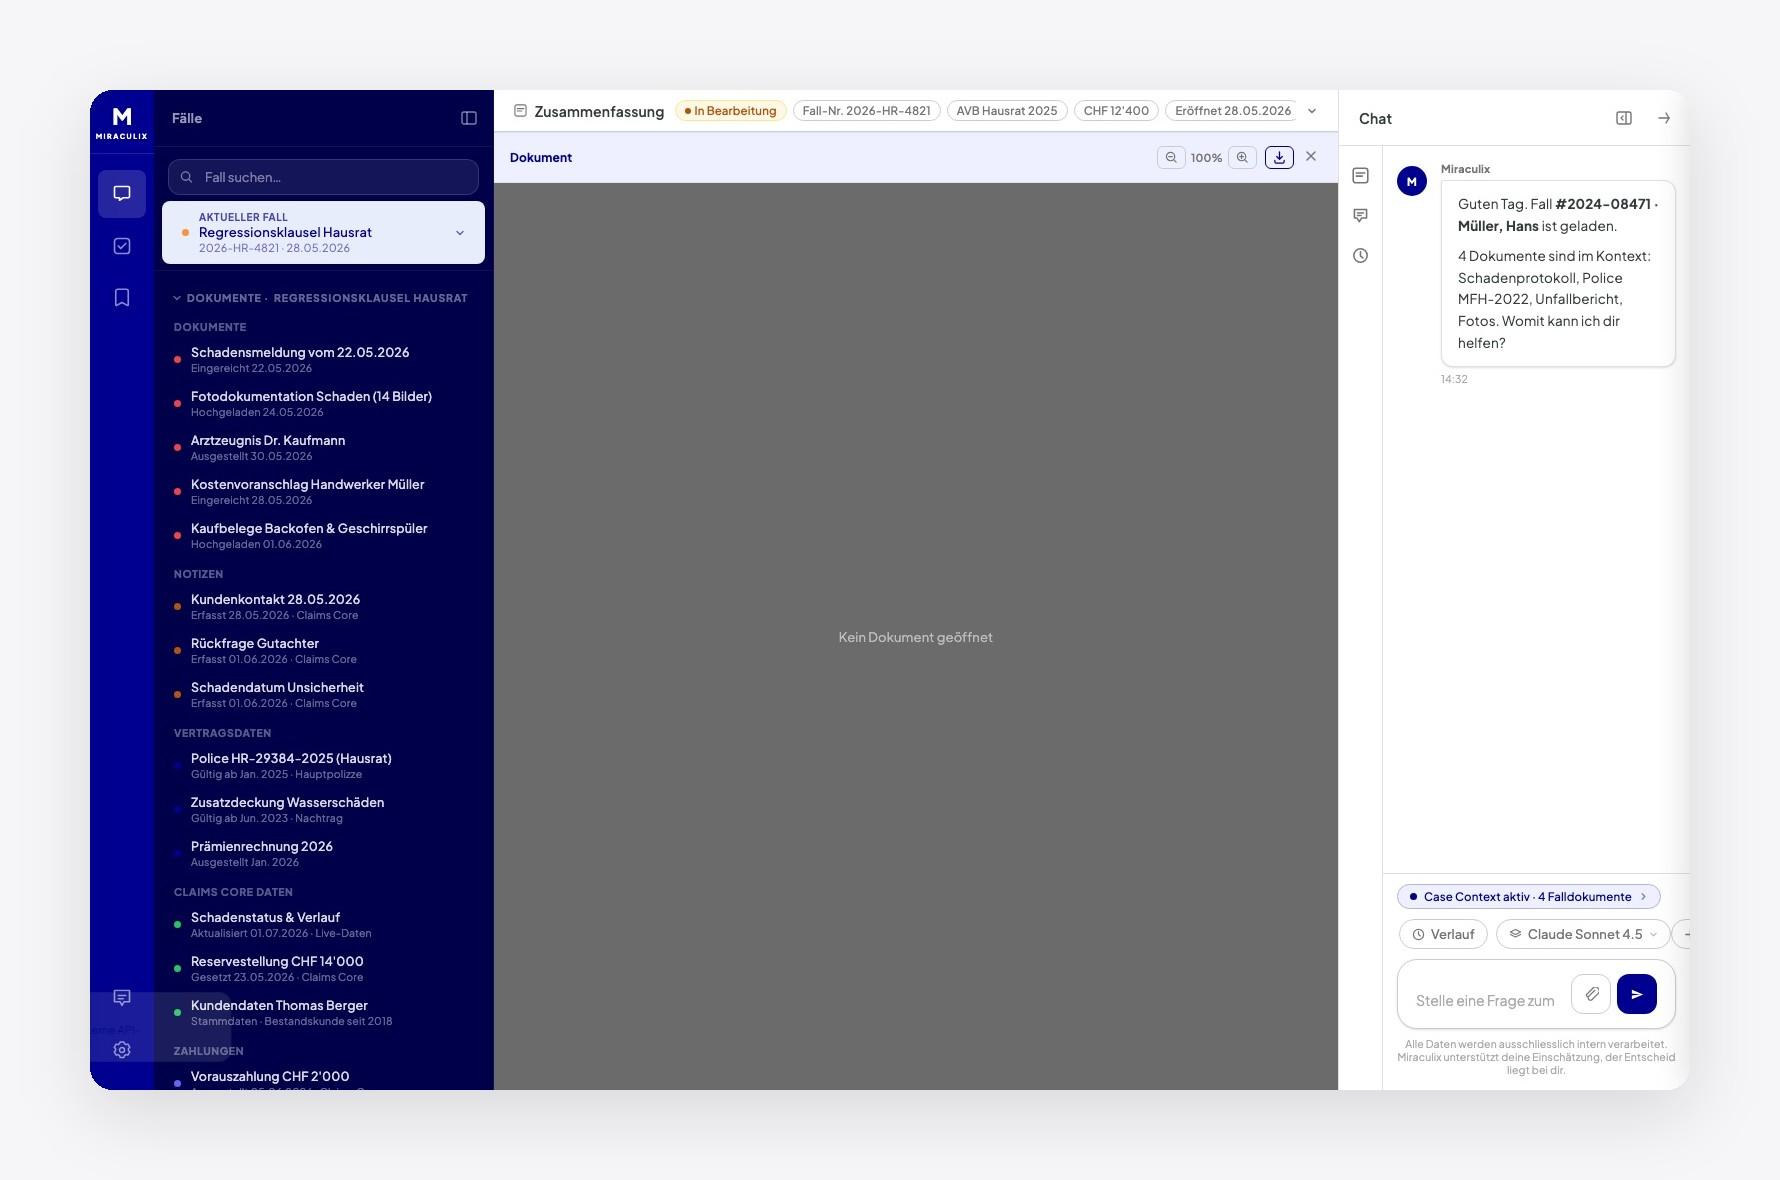
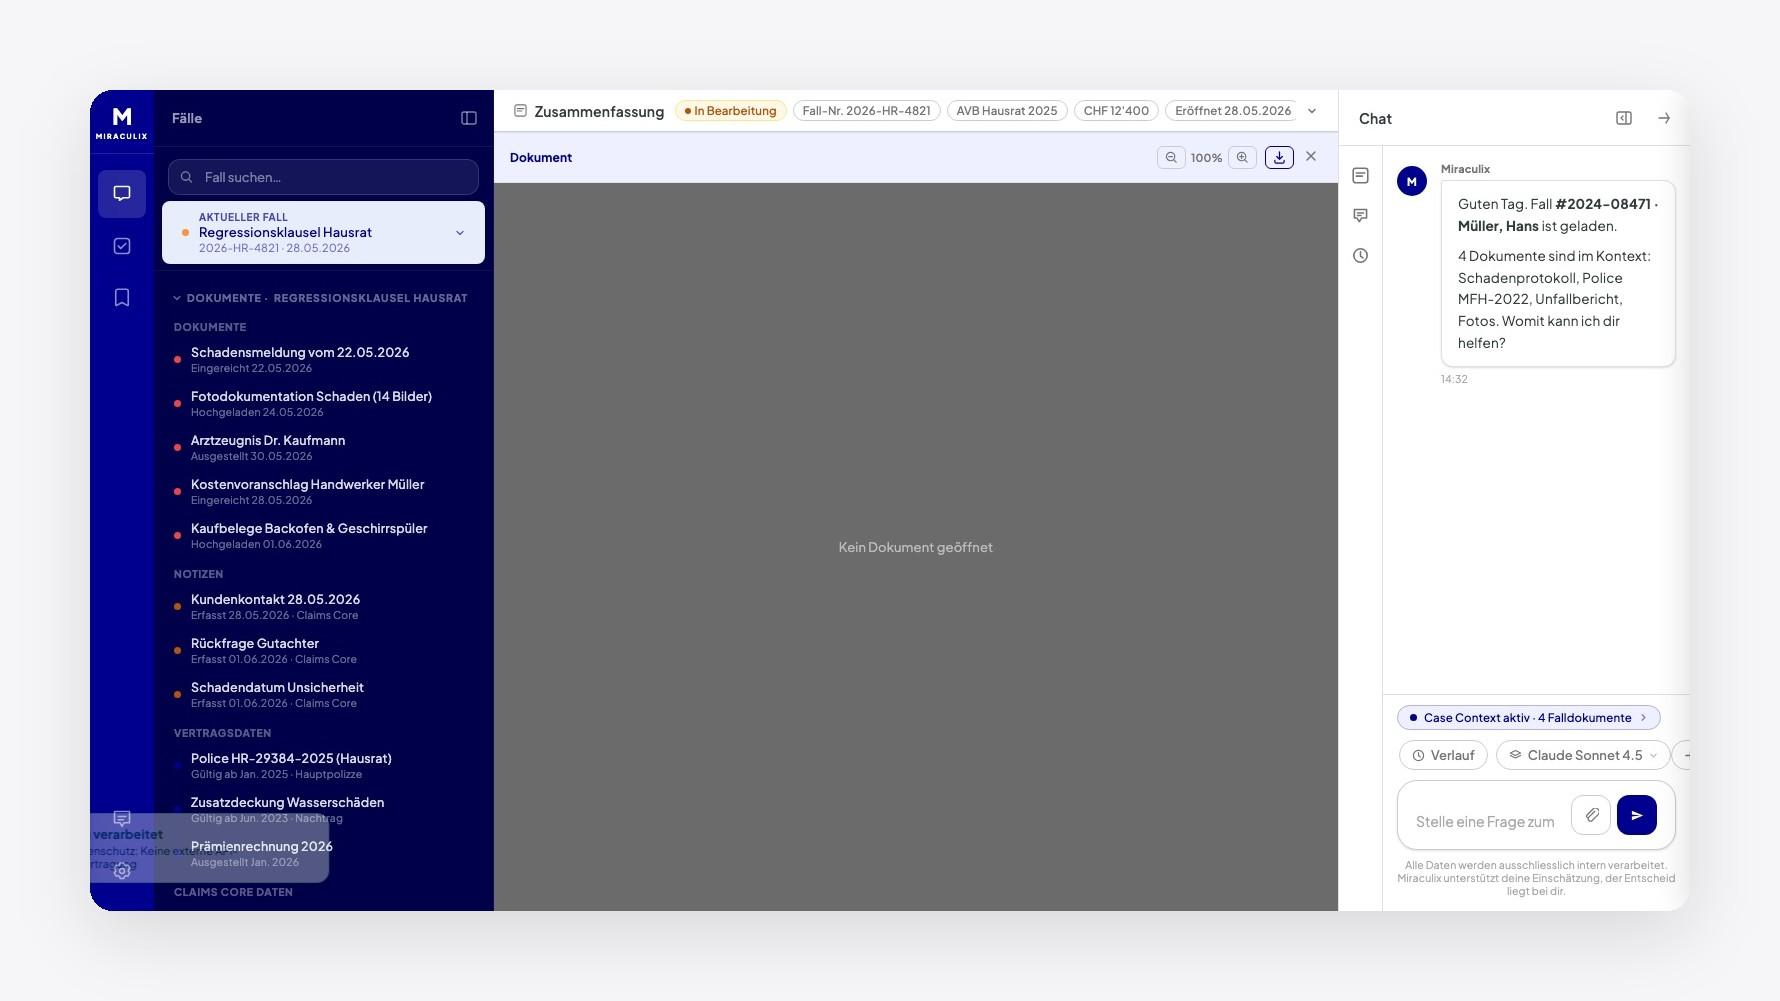
Fix vertical margin on Miraculix images and shorten project title
Regenerate screenshots at 16:9-matching aspect ratio so the device
mockup gets equal padding on all sides instead of being cropped
vertically by the slider aspect-ratio crop.

Changed region(s): [[0.0309, 0.0619, 0.9579, 0.9291], [0.4635, 0.5265, 0.5562, 0.5574], [0.8961, 0.0929, 0.927, 0.1239]]

diff --git a/projekte.html b/projekte.html
@@ -180,7 +180,7 @@
           </div>
           <div class="proj-detail-text">
             <div class="proj-detail-eyebrow">Projekt 01</div>
-            <h2 class="proj-detail-title" data-en="Miraculix App as the Future Workplace for Claims Handling at AXA Switzerland">Miraculix App als Arbeitsplatz der Zukunft für die Fallbearbeitung bei AXA Schweiz</h2>
+            <h2 class="proj-detail-title" data-en="The Future Workplace for Claims Handling at AXA Switzerland">Arbeitsplatz der Zukunft für die Fallbearbeitung bei AXA Schweiz</h2>
             <p class="proj-detail-lead" data-en="In the Data &amp; AI department, I develop an AI-powered future workplace for AXA&#8217;s claims handlers together with business units and the product team (Atlas).">In der Abteilung Data &amp; AI entwickle ich gemeinsam mit Fachbereichen und Produktteam (Atlas) einen AI-gestützten Arbeitsplatz der Zukunft für die Fallbearbeiter/innen der AXA.</p>
             <div class="proj-detail-body is-collapsible" id="projmiraculix-body">
               <p data-en="I work with the business to shape the vision and strategy for the Miraculix App, and together with business units and the product team (Atlas) design how AI is changing the daily work of claims handlers. I make sure the organisation evolves alongside it, so that users understand the new AI tools and can use them as effectively as possible. The goal is to support claims handling in a targeted way, analyse coverage check results more thoroughly, and make decisions more transparent, in both simple and complex cases. As a first step, we are aiming for up to 20% efficiency gains, with the potential for significantly more in later stages. As a steering model, I use my own WIN Framework: Impact, Integration and User Acceptance are developed with equal priority from the start, with user acceptance as a gate criterion for every scaling decision.">Ich erarbeite mit dem Business die Vision und Strategie für die Miraculix App und gestalte gemeinsam mit Fachbereichen und Produktteam (Atlas), wie AI die tägliche Arbeit von Fallbearbeiterinnen und Fallbearbeitern verändert. Dabei achte ich darauf, dass sich die Organisation mitentwickelt und die Anwenderinnen und Anwender die neuen AI-Tools verstehen und bestmöglich einsetzen können. Ziel ist es, die Fallbearbeitung gezielt zu unterstützen, Deckungsprüfungsergebnisse fundierter zu analysieren und Entscheidungen transparenter zu treffen, sowohl in einfachen wie auch in komplexen Fällen. In einem ersten Schritt streben wir bis zu 20% Effizienzsteigerung an, mit dem Potenzial für deutlich mehr in den folgenden Ausbaustufen. Als Steuerungsmodell nutze ich mein WIN Framework: Wirkung, Integration und Nutzerakzeptanz werden von Anfang an gleichrangig entwickelt, mit Nutzerakzeptanz als Gate-Kriterium für jede Skalierungsentscheidung.</p>
